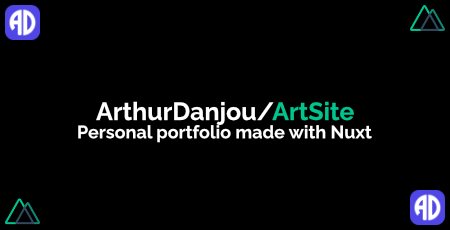
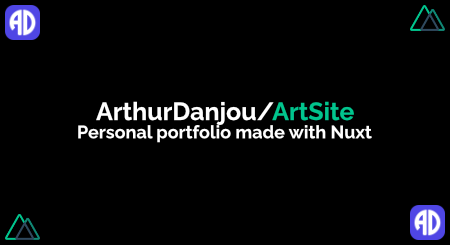
Update project illustration

diff --git a/src/components/Project.vue b/src/components/Project.vue
@@ -1,8 +1,8 @@
 <template>
   <a :href="url" target="_blank" rel="noopener noreferrer">
     <div class="rounded-lg shadow-xl h-92 w-full lg:w-84 text-left bg-gray-100 dark:bg-gray-800 transform hover:scale-103 duration-300 mb-8 lg:mb-0">
-      <div class="h-1/2 w-full post flex justify-center">
-        <img :src="getCover" alt="Project Image" class="h-full rounded-t-lg"/>
+      <div class="h-1/2 w-full h-2/5 project rounded-t-lg"
+           :style="{ backgroundImage: `url(${getCover})` }">
       </div>
       <div class="h-1/2 p-4 flex flex-col justify-between">
         <div>
@@ -69,7 +69,6 @@ export default {
 .project {
   background-position: center;
   background-size: cover;
-  background-repeat: no-repeat;
   @apply bg-opacity-50;
 }
 </style>
